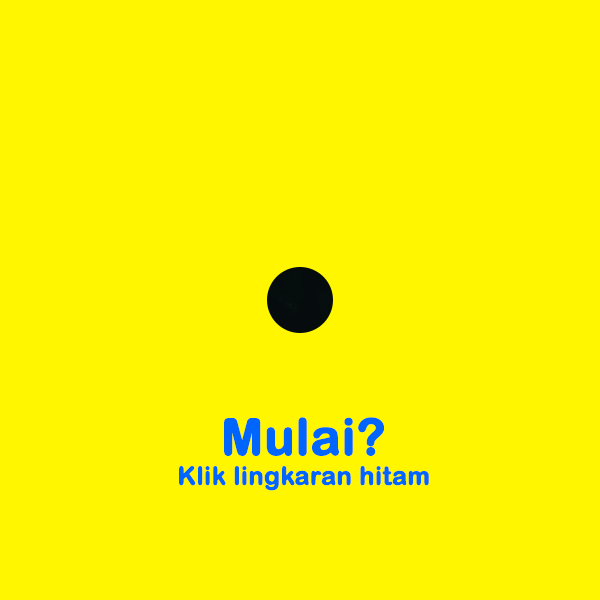
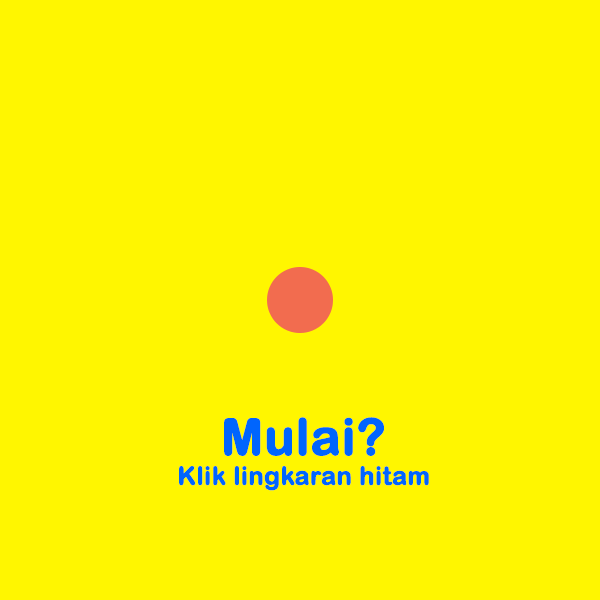
add game over situation

Changed region(s): [[0.42, 0.42, 0.57, 0.57]]

diff --git a/src/Maze.java b/src/Maze.java
@@ -15,6 +15,8 @@ public class Maze extends JComponent implements MouseListener, MouseMotionListen
     BufferedImage hiddenImage;
     /* Gambar start */
     BufferedImage start;
+    /* Gambar start */
+    BufferedImage gameOver;
     /* Gambar saat ini */
     BufferedImage currentImage;
 
@@ -25,8 +27,10 @@ public class Maze extends JComponent implements MouseListener, MouseMotionListen
      */
     public Maze() throws IOException{
         /* Membaca image dengan ImageIO ke BufferedImage */
-        image = ImageIO.read(getClass().getResource("hidden-maze.png"));
+        image = ImageIO.read(getClass().getResource("maze.png"));
+        hiddenImage = ImageIO.read(getClass().getResource("hidden-maze.png"));
         start = ImageIO.read(getClass().getResource("start.png"));
+        gameOver = ImageIO.read(getClass().getResource("game-over.png"));
 
         /* Menetapkan gambar saat ini menjadi sekarang */
         currentImage = start;
@@ -85,7 +89,13 @@ public class Maze extends JComponent implements MouseListener, MouseMotionListen
         int x = e.getX();
         int y = e.getY();
 
-        int color = image.getRGB(x, y);
+        int color = (currentImage == image? hiddenImage : currentImage).getRGB(x, y);
+
+        int gameOverColor = -16777216;
+
+        if(color == gameOverColor){
+            currentImage = gameOver;
+        }
 
         System.out.println(color);
 
@@ -99,9 +109,14 @@ public class Maze extends JComponent implements MouseListener, MouseMotionListen
 
         int color = image.getRGB(x, y);
 
-        if(color == -2560){
-            currentImage = image;
-            repaint();
+        if(currentImage == start){
+            if(color == -2560) {
+                currentImage = image;
+                repaint();
+            }
+        }
+        else if(currentImage == gameOver){
+            currentImage = start;
         }
     }
 
